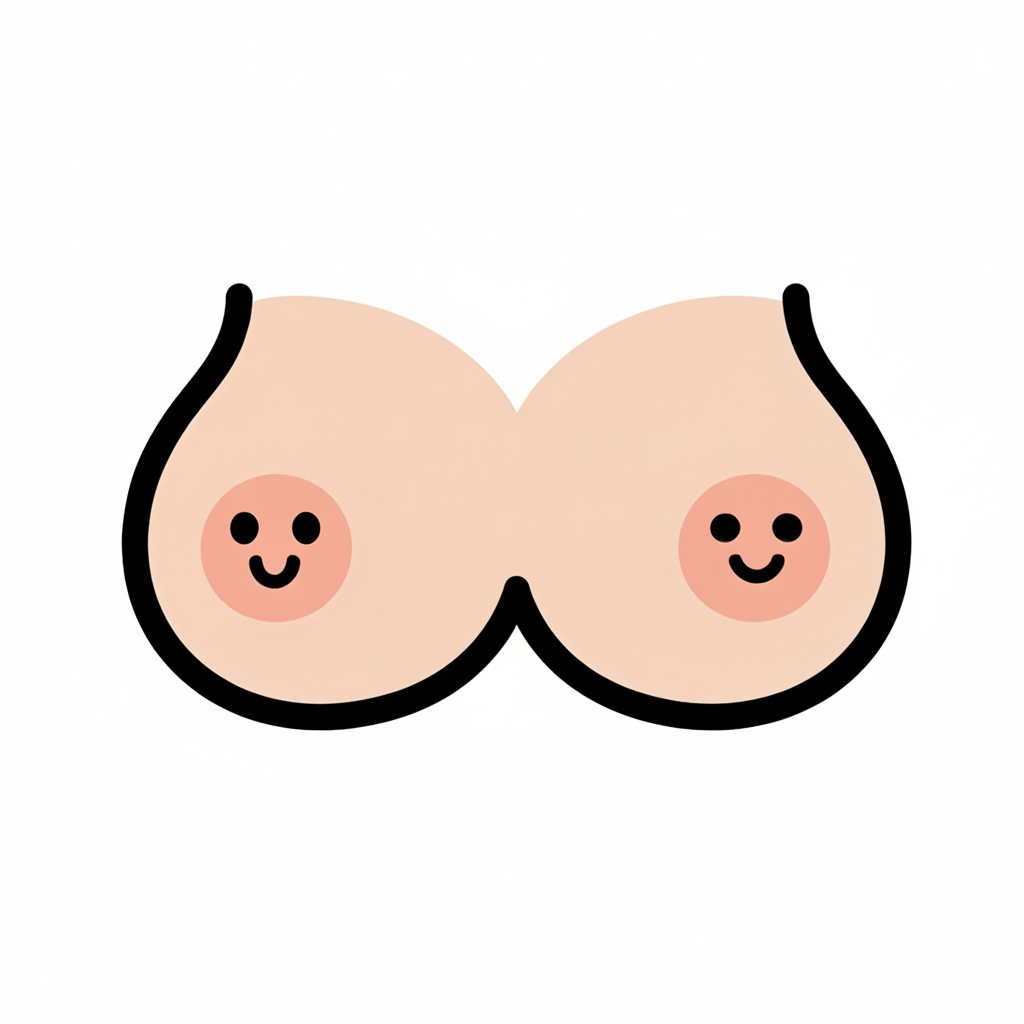
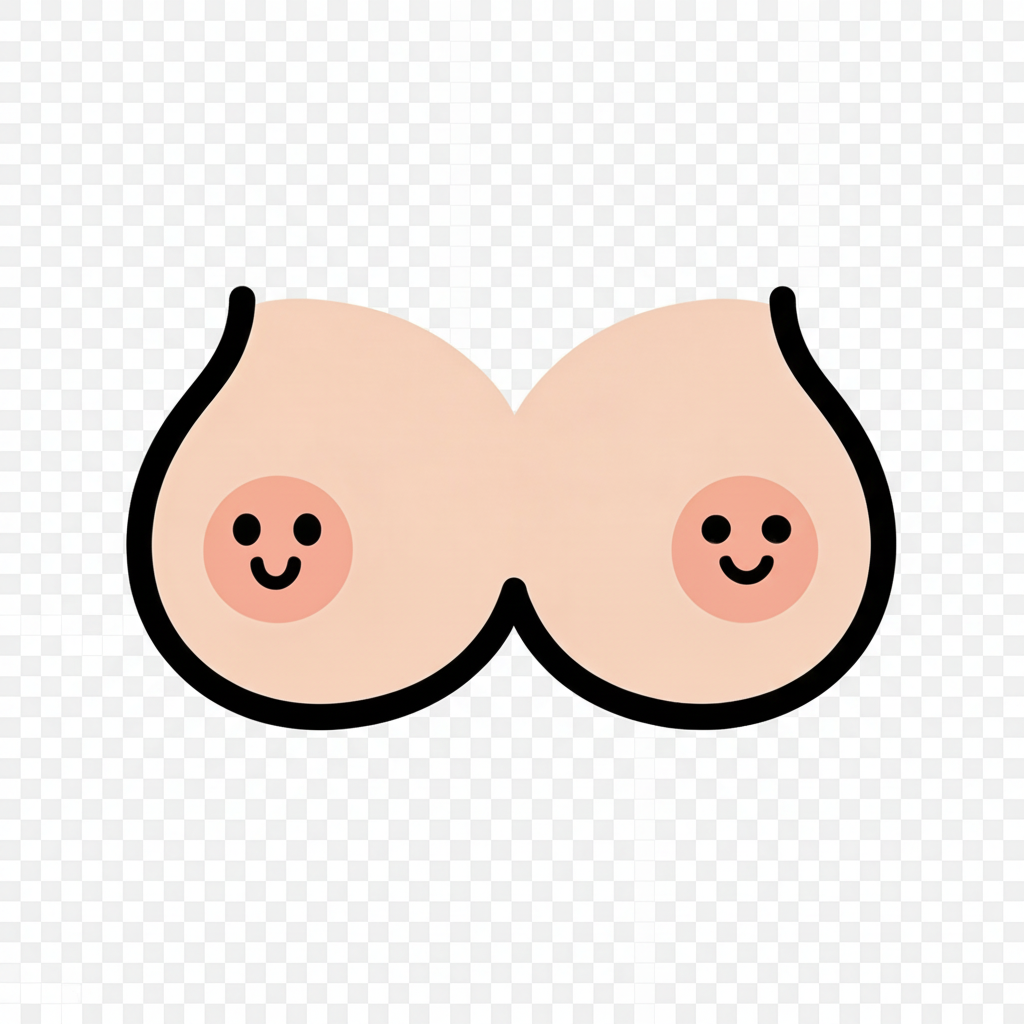
Changes

diff --git a/src/components/EmojiReactions.tsx b/src/components/EmojiReactions.tsx
@@ -342,32 +342,7 @@ const CUSTOM_REACTIONS: CustomReaction[] = [
     id: 'toy',
     label: 'Игрушка',
     svg: (
-      <svg viewBox="0 0 48 48" className="w-full h-full">
-        <defs>
-          <linearGradient id="toy-grad" x1="50%" y1="0%" x2="50%" y2="100%">
-            <stop offset="0%" stopColor="#4a3a4a"/>
-            <stop offset="100%" stopColor="#2d1f2d"/>
-          </linearGradient>
-        </defs>
-        {/* Main body */}
-        <rect x="18" y="4" width="14" height="34" rx="7" fill="url(#toy-grad)"/>
-        {/* Side part */}
-        <ellipse cx="14" cy="24" rx="6" ry="10" fill="url(#toy-grad)" transform="rotate(-20 14 24)"/>
-        {/* Ridges */}
-        <path d="M18 18 Q16 19 16 20" stroke="#6b5b6b" strokeWidth="1.5" fill="none"/>
-        <path d="M18 22 Q16 23 16 24" stroke="#6b5b6b" strokeWidth="1.5" fill="none"/>
-        <path d="M18 26 Q16 27 16 28" stroke="#6b5b6b" strokeWidth="1.5" fill="none"/>
-        {/* Face base */}
-        <rect x="18" y="32" width="14" height="12" rx="7" fill="#fdd5c8"/>
-        {/* Eyes */}
-        <circle cx="22" cy="38" r="1.5" fill="#2d1f2d"/>
-        <circle cx="28" cy="38" r="1.5" fill="#2d1f2d"/>
-        {/* Smile */}
-        <path d="M23 41 Q25 43 27 41" stroke="#2d1f2d" strokeWidth="1" fill="none" strokeLinecap="round"/>
-        {/* Cheeks */}
-        <circle cx="21" cy="40" r="1.5" fill="#f5a0a0" opacity="0.5"/>
-        <circle cx="29" cy="40" r="1.5" fill="#f5a0a0" opacity="0.5"/>
-      </svg>
+      <img src="/images/emoji-toy.png" alt="Toy" className="w-full h-full object-contain" />
     ),
     glowColor: 'rgba(100, 60, 100, 0.7)',
     animationClass: 'emoji-eggplant-animate',
@@ -376,22 +351,7 @@ const CUSTOM_REACTIONS: CustomReaction[] = [
     id: 'boobs',
     label: 'Сиськи',
     svg: (
-      <svg viewBox="0 0 48 36" className="w-full h-full">
-        {/* Left */}
-        <ellipse cx="17" cy="22" rx="13" ry="12" fill="#fdd5c8" stroke="#2d1f2d" strokeWidth="2"/>
-        {/* Right */}
-        <ellipse cx="31" cy="22" rx="13" ry="12" fill="#fdd5c8" stroke="#2d1f2d" strokeWidth="2"/>
-        {/* Left nipple */}
-        <circle cx="17" cy="22" r="4" fill="#f5a0a0"/>
-        <circle cx="16" cy="21" r="1" fill="#2d1f2d"/>
-        <circle cx="18.5" cy="21" r="1" fill="#2d1f2d"/>
-        <path d="M15.5 23.5 Q17 25 18.5 23.5" stroke="#2d1f2d" strokeWidth="0.8" fill="none" strokeLinecap="round"/>
-        {/* Right nipple */}
-        <circle cx="31" cy="22" r="4" fill="#f5a0a0"/>
-        <circle cx="30" cy="21" r="1" fill="#2d1f2d"/>
-        <circle cx="32.5" cy="21" r="1" fill="#2d1f2d"/>
-        <path d="M29.5 23.5 Q31 25 32.5 23.5" stroke="#2d1f2d" strokeWidth="0.8" fill="none" strokeLinecap="round"/>
-      </svg>
+      <img src="/images/emoji-boobs.png" alt="Boobs" className="w-full h-full object-contain" />
     ),
     glowColor: 'rgba(255, 180, 180, 0.7)',
     animationClass: 'emoji-peach-animate',
